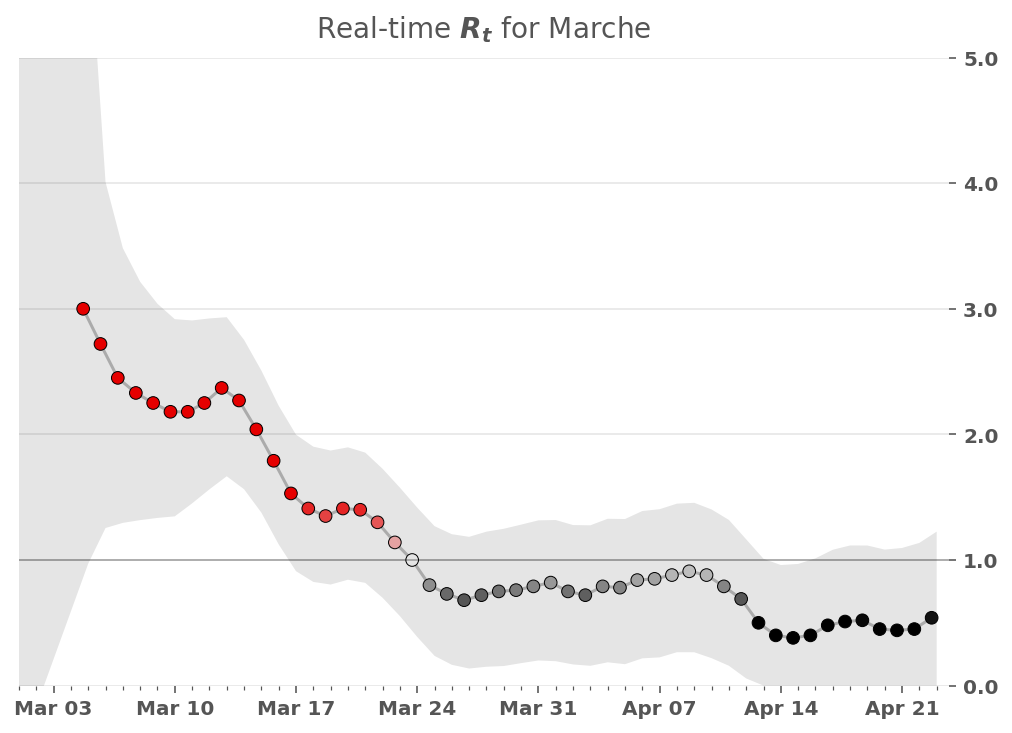
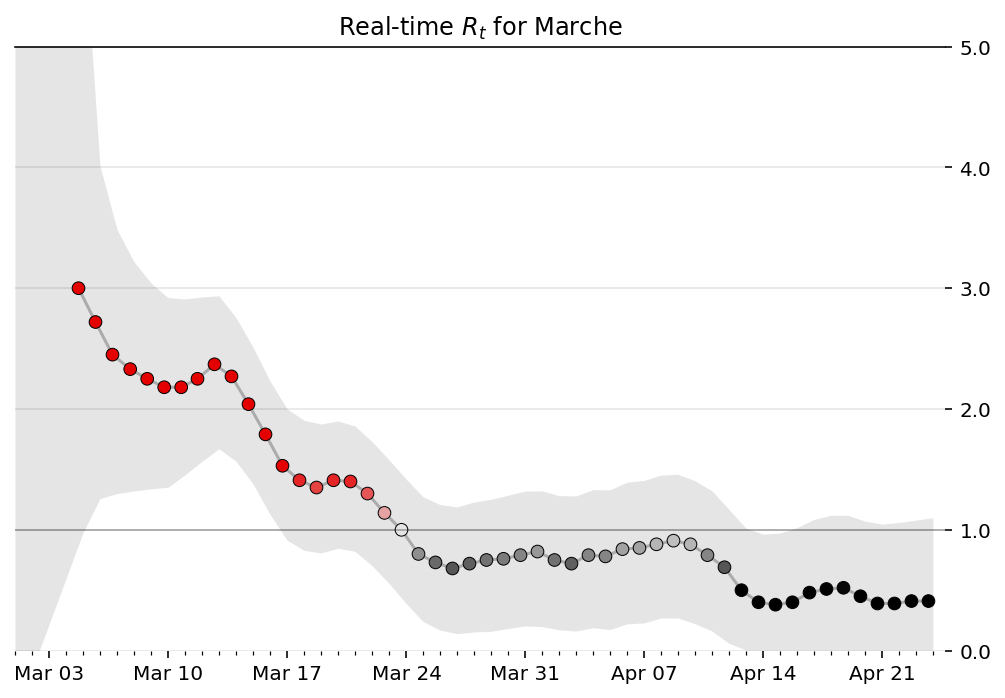
Update 2020-01-23

diff --git a/RealtimeR0_Italy/RealtimeR0_Italy.py b/RealtimeR0_Italy/RealtimeR0_Italy.py
@@ -152,13 +152,14 @@ original.plot(title=f"{state_name} New Cases per Day",
                alpha=.5,
                label='Actual',
                legend=True,
-             figsize=(500/72, 300/72))
+             figsize=(14,8))
 
 ax = smoothed.plot(label='Smoothed',
                    legend=True)
 
 ax.get_figure().set_facecolor('w')
 path = 'smoothed_{}.png'.format(state_name)
+plt.tight_layout()
 plt.savefig(path)
 plt.close()
 
@@ -307,13 +308,14 @@ def plot_rt(result, ax, state_name):
     fig.set_facecolor('w')
 
     
-fig, ax = plt.subplots(figsize=(600/72,400/72))
+fig, ax = plt.subplots(figsize=(14,8))
 
 plot_rt(result, ax, state_name)
 ax.set_title(f'Real-time $R_t$ for {state_name}')
 ax.xaxis.set_major_locator(mdates.WeekdayLocator())
 ax.xaxis.set_major_formatter(mdates.DateFormatter('%b %d'))
 path1 = 'rt_{}.png'.format(state_name)
+plt.tight_layout()
 plt.savefig(path1)
 plt.close()
 
@@ -433,7 +435,7 @@ ERROR_BAR_COLOR = [.3,.3,.3]
 filtered = final_results.index.get_level_values(0)
 mr = final_results.loc[filtered].groupby(level=0)[['ML', 'High_90', 'Low_90']].last()
 
-def plot_standings(mr, figsize=None, title='Most Recent $R_t$ by State'):
+def plot_standings(mr, figsize=None, title='Most Recent ({}) $R_t$ by State'.format(str(index.get_level_values('data')[-2]+pd.Timedelta(days=1))[:10])):
     if not figsize:
         figsize = ((15.9/50)*len(mr)+.1,2.5)
         
@@ -457,7 +459,7 @@ def plot_standings(mr, figsize=None, title='Most Recent $R_t$ by State'):
         if mr.loc[state_name,'ML'] <= 1:
             bar.set_color(PARTIAL_COLOR)
     
-    labels = mr.index.to_series()
+    labels = mr.index.to_series().replace({'Friuli Venezia Giulia':'FVG','Emilia-Romagna':'ER','P.A. Bolzano':'Bolzano','P.A. Trento':'Trento',"Valle d'Aosta":'V.Aosta'})
     ax.set_xticklabels(labels, rotation=90, fontsize=11)
     ax.margins(0)
     ax.set_ylim(0,2.)
@@ -479,24 +481,26 @@ def plot_standings(mr, figsize=None, title='Most Recent $R_t$ by State'):
 
 mr.sort_values('ML', inplace=True)
 plot_standings(mr)
+plt.tight_layout(pad=5.1)
 plt.savefig('rt_italy.png')
 plt.close()
 
 mr.sort_values('High_90', inplace=True)
 plot_standings(mr)
+plt.tight_layout(pad=5.1)
 plt.savefig('rt_italy_sorted.png')
 plt.close()
 
 show = mr[mr.High_90.le(1)].sort_values('ML')
 fig, ax = plot_standings(show, title='Likely Under Control')
-
+plt.tight_layout(pad=5.1)
 plt.savefig('likely_under_control_italy.png')
 plt.close()
 
 show = mr[mr.Low_90.ge(1.0)].sort_values('Low_90')
 fig, ax = plot_standings(show, title='Likely Not Under Control')
 ax.get_legend().remove()
-
+plt.tight_layout(pad=5.1)
 plt.savefig('likelynot_under_control_italy.png')
 plt.close()
 
